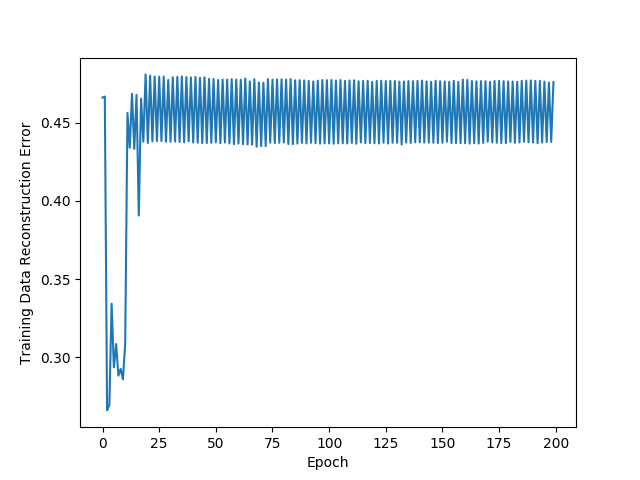
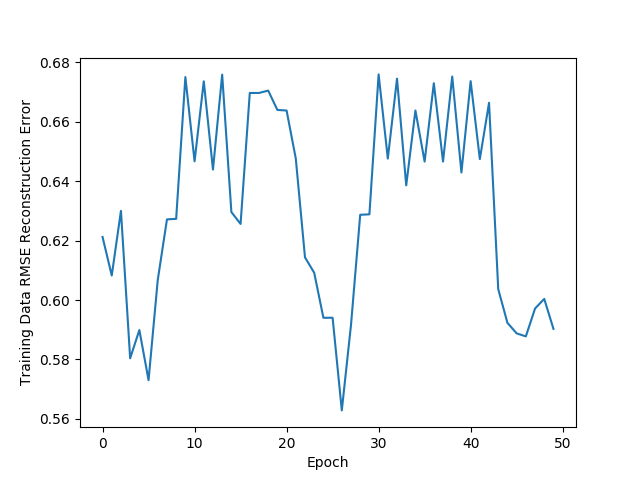
RBM: Re-Run RBM model with W&B

diff --git a/Boltzmann-Machines-Experiments/RBM-CF-PyTorch/train.py b/Boltzmann-Machines-Experiments/RBM-CF-PyTorch/train.py
@@ -8,6 +8,13 @@ import torch
 # Import RBM model script
 from rbm import RBM
 
+# Initialize Weights and Biases
+import wandb
+wandb.init(entity="khanhnamle1994", project="boltzmann_machines_collaborative_filtering")
+
+# Config is a variable that holds and saves hyper-parameters
+config = wandb.config  # Initialize config
+
 # Path directory
 path = '../../ml-1m'
 
@@ -25,17 +32,17 @@ trainingset = np.array(trainingset, dtype='int')
 testset = np.array(testset, dtype='int')
 
 # Collect the total number of movies and users in order to then make a matrix of the data
-nb_users = int(max(max(trainingset[:, 0]), max(testset[:, 0])))
-nb_movies = int(max(max(trainingset[:, 1]), max(testset[:, 1])))
+config.nb_users = int(max(max(trainingset[:, 0]), max(testset[:, 0])))
+config.nb_movies = int(max(max(trainingset[:, 1]), max(testset[:, 1])))
 
 
 # Function to convert the data into an array with users in lines and movies in columns
 def convert(data):
     new_data = []  # initialise list
-    for id_users in range(1, nb_users + 1):
+    for id_users in range(1, config.nb_users + 1):
         id_movies = data[:, 1][data[:, 0] == id_users]
         id_ratings = data[:, 2][data[:, 0] == id_users]
-        ratings = np.zeros(nb_movies)
+        ratings = np.zeros(config.nb_movies)
         ratings[id_movies - 1] = id_ratings
         new_data.append(list(ratings))
     return new_data
@@ -61,31 +68,31 @@ test_set[test_set == 2] = 0
 test_set[test_set >= 3] = 1
 
 # Number of movies is the number of visible units
-n_vis = len(training_set[0])
+config.n_vis = len(training_set[0])
 # This tunable parameter is the number of features that we want to detect (number of hidden units)
-n_hid = 100
+config.n_hid = 100
 
-# Create the class object RBM()
-rbm = RBM(n_vis, n_hid)
+# Create the model object RBM()
+rbm = RBM(config.n_vis, config.n_hid)
 
-batch_size_ = 512  # set batch size to be 512 (tunable)
+config.batch_size_ = 512  # set batch size to be 512 (tunable)
 reconerr = []  # keep track of reconstruction error
-nb_epoch = 200  # run for 200 epochs
+config.nb_epoch = 50  # run for 50 epochs
 
 # Train the RBM
 # First for loop - go through every single epoch
-for epoch in range(1, nb_epoch + 1):
-    train_recon_error = 0  # reconstruction error initialized to 0 at the beginning of training
+for epoch in range(1, config.nb_epoch + 1):
+    train_recon_error = 0  # RMSE reconstruction error initialized to 0 at the beginning of training
     s = 0.  # a counter (float type)
 
     # Second for loop - go through every single user
     # Lower bound is 0, upper bound is (nb_users - batch_size_), batch_size_ is the step of each batch (512)
     # The 1st batch is for user with ID = 0 to user with ID = 511
-    for id_user in range(0, nb_users - batch_size_, batch_size_):
+    for id_user in range(0, config.nb_users - config.batch_size_, config.batch_size_):
 
         # At the beginning, v0 = vk. Then we update vk
-        vk = training_set[id_user:id_user + batch_size_]
-        v0 = training_set[id_user:id_user + batch_size_]
+        vk = training_set[id_user:id_user + config.batch_size_]
+        v0 = training_set[id_user:id_user + config.batch_size_]
         ph0, _ = rbm.sample_h(v0)
 
         # Third for loop - perform contrastive divergence
@@ -102,26 +109,27 @@ for epoch in range(1, nb_epoch + 1):
         rbm.train(v0, vk, ph0, phk)
 
         # Compare vk updated after the training to v0 (the target)
-        train_recon_error += torch.mean(torch.abs(v0[v0 >= 0] - vk[v0 >= 0]))
+        train_recon_error += torch.sqrt(torch.mean((v0[v0 >= 0] - vk[v0 >= 0])**2))
         s += 1.
 
-    # Update reconstruction error
+    # Update RMSE reconstruction error
     reconerr.append(train_recon_error / s)
 
-    print('Epoch: ' + str(epoch) + '- Reconstruction Error: ' + str(train_recon_error.data.numpy() / s))
+    print('Epoch: ' + str(epoch) + '- RMSE Reconstruction Error: ' + str(train_recon_error.data.numpy() / s))
+    wandb.log({"Train RMSE": train_recon_error.data.numpy() / s})
 
-# Plot the reconstruction error with respect to increasing number of epochs
+# Plot the RMSE reconstruction error with respect to increasing number of epochs
 plt.plot(reconerr)
-plt.ylabel('Training Data Reconstruction Error')
+plt.ylabel('Training Data RMSE Reconstruction Error')
 plt.xlabel('Epoch')
-plt.show()
+plt.savefig('pics/result.png')
 
 # Evaluate the RBM on test set
-test_recon_error = 0  # reconstruction error initialized to 0 at the beginning of training
+test_recon_error = 0  # RMSE reconstruction error initialized to 0 at the beginning of training
 s = 0.  # a counter (float type)
 
 # for loop - go through every single user
-for id_user in range(nb_users):
+for id_user in range(config.nb_users):
     v = training_set[id_user:id_user + 1]  # training set inputs are used to activate neurons of my RBM
     vt = test_set[id_user:id_user + 1]  # target
 
@@ -129,8 +137,9 @@ for id_user in range(nb_users):
         _, h = rbm.sample_h(v)
         _, v = rbm.sample_v(h)
 
-        # Update test reconstruction error
-        test_recon_error += torch.mean(torch.abs(vt[vt >= 0] - v[vt >= 0]))
+        # Update test RMSE reconstruction error
+        test_recon_error += torch.sqrt(torch.mean((vt[vt >= 0] - v[vt >= 0])**2))
         s += 1.
 
-print('Reconstruction error:  ' + str(test_recon_error.data.numpy() / s))
+print('RMSE Reconstruction error:  ' + str(test_recon_error.data.numpy() / s))
+wandb.log({"Test RMSE": test_recon_error.data.numpy() / s})

diff --git a/Boltzmann-Machines-Experiments/RBM-CF-PyTorch/README.md b/Boltzmann-Machines-Experiments/RBM-CF-PyTorch/README.md
@@ -2,11 +2,12 @@
 
 This is my PyTorch implementation of the paper [Restricted Boltzmann Machines for Collaborative Filtering](https://www.cs.toronto.edu/~rsalakhu/papers/rbmcf.pdf) by Ruslan Salakhutdinov, Andriy Mnih, and Geoffrey Hinton (2007). In particular, I trained the RBM model with contrastive divergence on the public Movielens-1M dataset.
 
-<img src="https://github.com/khanhnamle1994/transfer-rec/blob/master/Boltzmann-Machines-Experiments/RBM-CF-PyTorch/pics/RBM-Fig.png" width="400">
+<img src="https://github.com/khanhnamle1994/transfer-rec/blob/master/Boltzmann-Machines-Experiments/RBM-CF-PyTorch/pics/RBM-Fig.png" width="550">
 
 ## Requirements
 ```
-PyTorch 1.3 & Python 3.6
+PyTorch 1.3
+Python 3.6
 Numpy
 Pandas
 Matplotlib
@@ -20,6 +21,7 @@ You can download the MovieLens-1M dataset from [this folder](https://github.com/
 * [train.py](https://github.com/khanhnamle1994/transfer-rec/blob/master/Boltzmann-Machines-Experiments/RBM-CF-PyTorch/train.py): This is the main training script. You can simply run `python train.py` to execute it.
 
 ## Results
-I obtained a reconstruction MAE (Mean Absolute Error) value of 0.476 after training the model for 200 epochs. The reconstruction MAE on the test set is 0.238.
+I obtained a reconstruction RMSE (Root Mean Squared Error) value of 0.590 after training the model for 50 epochs. The reconstruction RMSE on the test set is 0.523. Training time takes 10m56s.
+The full run is logged into Weights and Biases [here](https://app.wandb.ai/khanhnamle1994/boltzmann_machines_collaborative_filtering/runs/prbp4qro).
 
-<img src="https://github.com/khanhnamle1994/transfer-rec/blob/master/Boltzmann-Machines-Experiments/RBM-CF-PyTorch/pics/result.png" width="500">
+<img src="https://github.com/khanhnamle1994/transfer-rec/blob/master/Boltzmann-Machines-Experiments/RBM-CF-PyTorch/pics/result.png" width="550">
